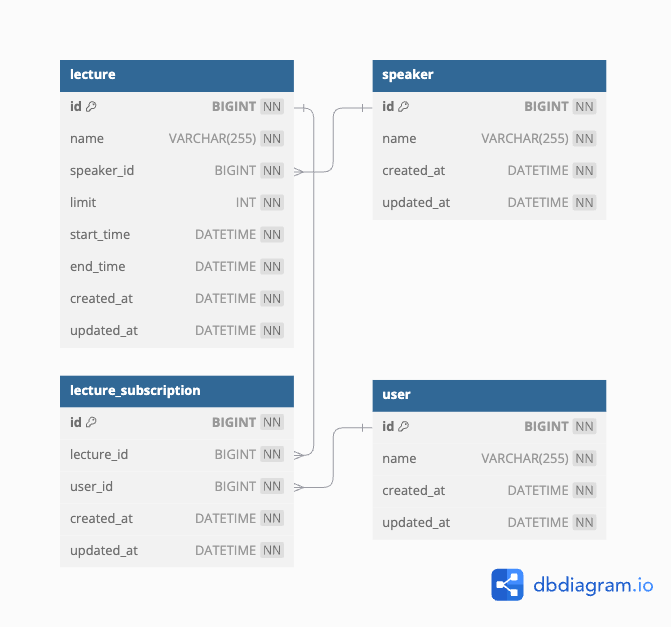
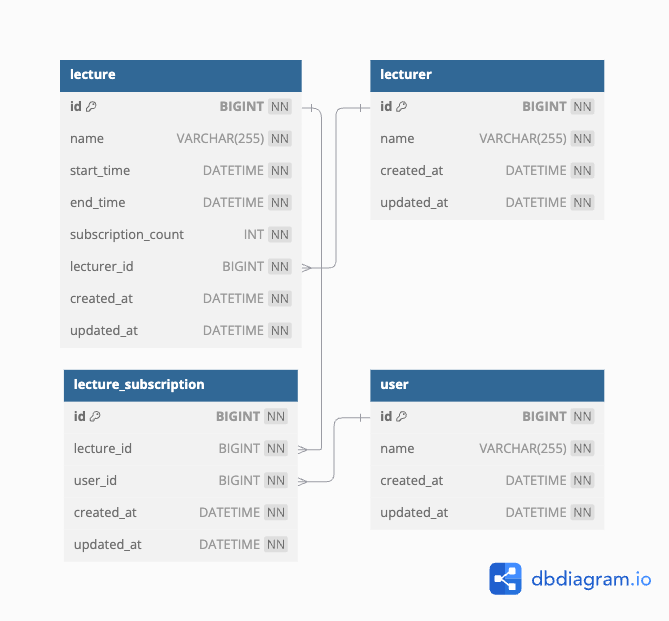
Docs: 문서 업데이트 > 특강 내 신청자 수 컬럼 추가, 특강 정원 컬럼 삭제, 강연자 워딩 변경

diff --git a/erd.md b/erd.md
@@ -8,15 +8,15 @@
 Table lecture as "특강" {
   id BIGINT [pk, not null] // 특강 ID
   name VARCHAR(255) [not null] // 특강 이름
-  speaker_id BIGINT [not null, ref: > speaker.id] // 강연자 ID
-  limit INT [not null] // 특강 정원
   start_time DATETIME [not null] // 특강 시작 시간
   end_time DATETIME [not null] // 특강 종료 시간
+  subscription_count INT [not null] // 특강 신청자 수
+  lecturer_id BIGINT [not null, ref: > lecturer.id] // 강연자 ID
   created_at DATETIME [not null] // 생성 시각
   updated_at DATETIME [not null] // 수정 시각
 }
 
-Table speaker as "강연자" {
+Table lecturer as "강연자" {
   id BIGINT [pk, not null] // 강연자 ID
   name VARCHAR(255) [not null] // 강연자 이름
   created_at DATETIME [not null] // 생성 시각

diff --git a/requirements.md b/requirements.md
@@ -57,11 +57,11 @@
 1. Lecture (특강)
     - id (특강 ID)
     - name (특강 이름)
-    - speakerId (강연자 ID)
-    - limit (특강 정원)
+    - lecturerId (강연자 ID)
+    - subscription_count (특강 신청자 수)
     - startTime (특강 시작 시간)
     - endTime (특강 종료 시간)
-2. Speaker (강연자)
+2. Lecturer (강연자)
     - id (강연자 ID)
     - name (강연자 이름)
 3. LectureSubscription (특강 신청)
